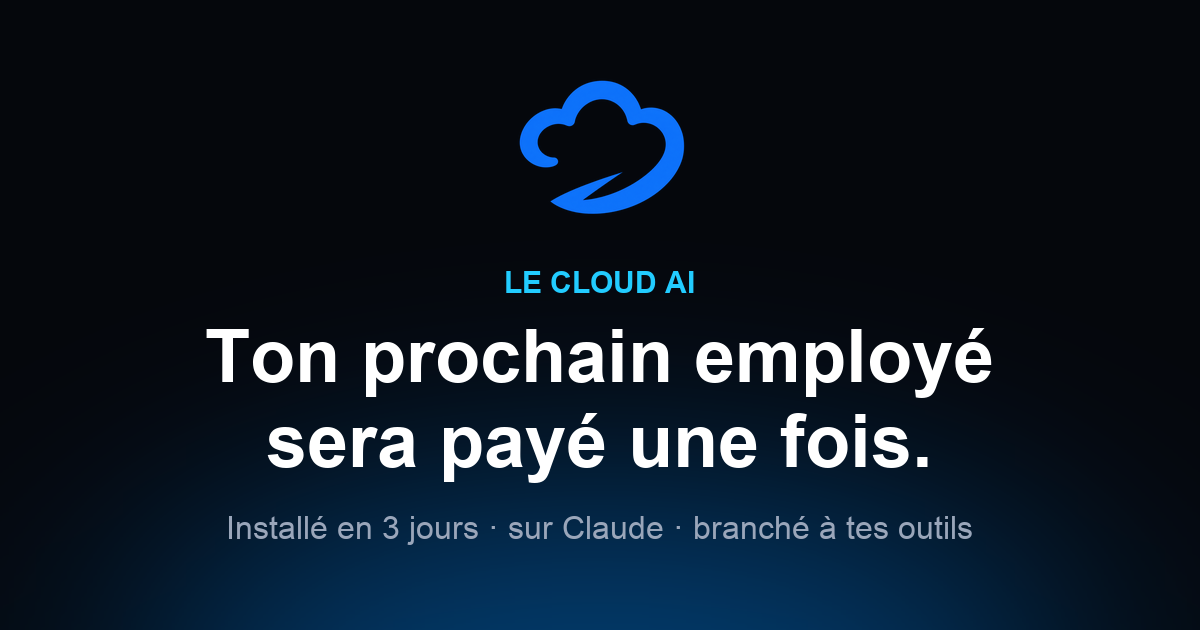
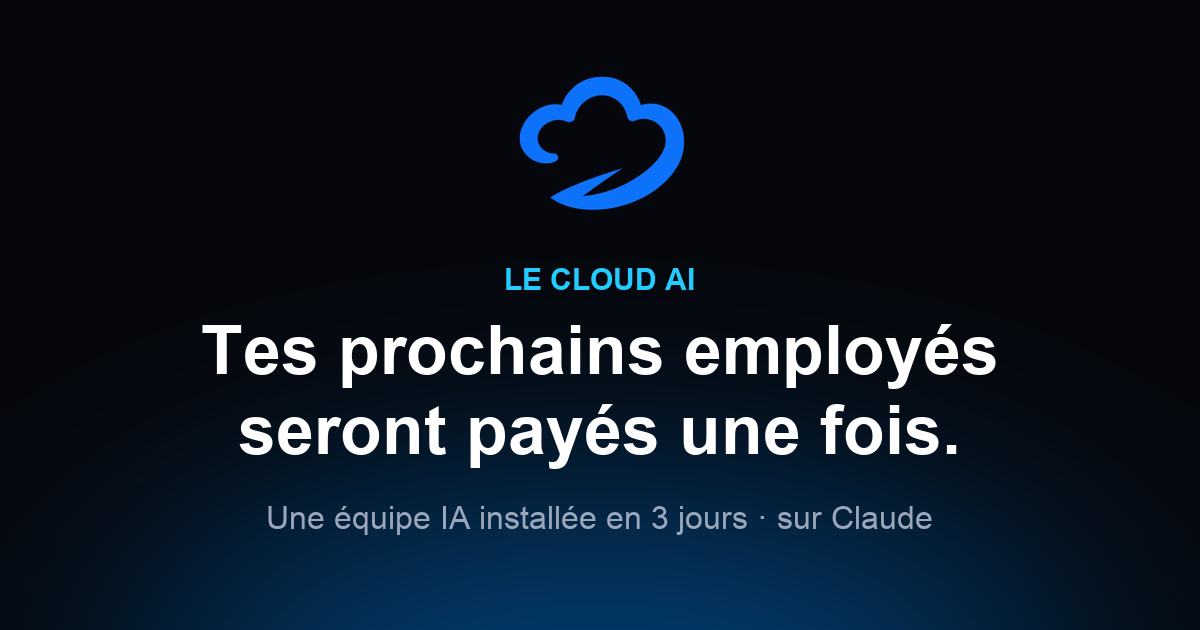
Hero au pluriel (equipe IA / tes prochains employes) + coupe le paragraphe bla-bla ; OG maj

diff --git a/app/page.tsx b/app/page.tsx
@@ -301,10 +301,10 @@ export default function Page() {
             <Eyebrow>2 places par mois uniquement</Eyebrow>
             <h1 className="relative z-20 mx-auto mt-6 max-w-4xl font-display leading-[1] text-white">
               <span className="block text-2xl font-800 sm:text-5xl">
-                Ton prochain employé sera
+                Tes prochains employés seront
               </span>
               <span className="accent relative z-10 -mt-1 block px-3 pt-2 pb-5 text-[3.25rem] leading-none sm:-mt-6 sm:text-8xl">
-                payé une fois.
+                payés une fois.
               </span>
             </h1>
             <p className="mx-auto mt-5 font-display text-xl font-600 text-white sm:text-2xl">
@@ -313,11 +313,9 @@ export default function Page() {
             <p className="mx-auto mt-4 font-display text-lg font-700 text-fluo-300 sm:text-xl">
               Un seul chat. Tous tes outils. Zéro tâche répétitive.
             </p>
-            <p className="mx-auto mt-6 max-w-2xl text-lg leading-relaxed text-mist-soft">
-              En <span className="accent">3 jours</span>, on installe ton employé IA directement
-              dans Claude. Tu lui écris dans une seule conversation : il lit tes courriels, met à
-              jour ton CRM, planifie ton contenu, répond à tes clients et gère tes factures. Pas
-              d'app à ouvrir, pas de dashboard à checker. Tu parles, il exécute.
+            <p className="mx-auto mt-6 max-w-xl text-lg leading-relaxed text-mist-soft">
+              En <span className="accent">3 jours</span>, on installe ton équipe IA directement dans
+              Claude.
             </p>
 
             <div className="mt-9 flex flex-col items-center justify-center gap-3 sm:flex-row">

diff --git a/app/vsl/page.tsx b/app/vsl/page.tsx
@@ -39,14 +39,14 @@ export default function VslPage() {
               2 places par mois uniquement
             </span>
             <h1 className="mx-auto mt-4 font-display leading-[1] text-white sm:mt-5">
-              <span className="block text-xl font-800 sm:text-3xl">On crée ton employé IA en</span>
+              <span className="block text-xl font-800 sm:text-3xl">On crée ton équipe IA en</span>
               <span className="accent block px-2 pb-3 pt-1 text-[3.5rem] leading-[0.9] sm:text-8xl">
                 3 jours.
               </span>
             </h1>
             <p className="mx-auto mt-3 max-w-xl text-sm leading-relaxed text-mist-soft sm:text-lg">
-              Un employé qui exécute tes tâches répétitives, branché à tes outils. On identifie par
-              où commencer, on construit, et on te rend autonome.
+              Une équipe d&apos;employés IA qui exécute tes tâches répétitives, branchée à tes
+              outils. On identifie par où commencer, on construit, et on te rend autonome.
             </p>
 
             <p className="mt-4 flex items-center justify-center gap-2 font-display text-sm font-700 text-white sm:mt-6 sm:text-lg">
